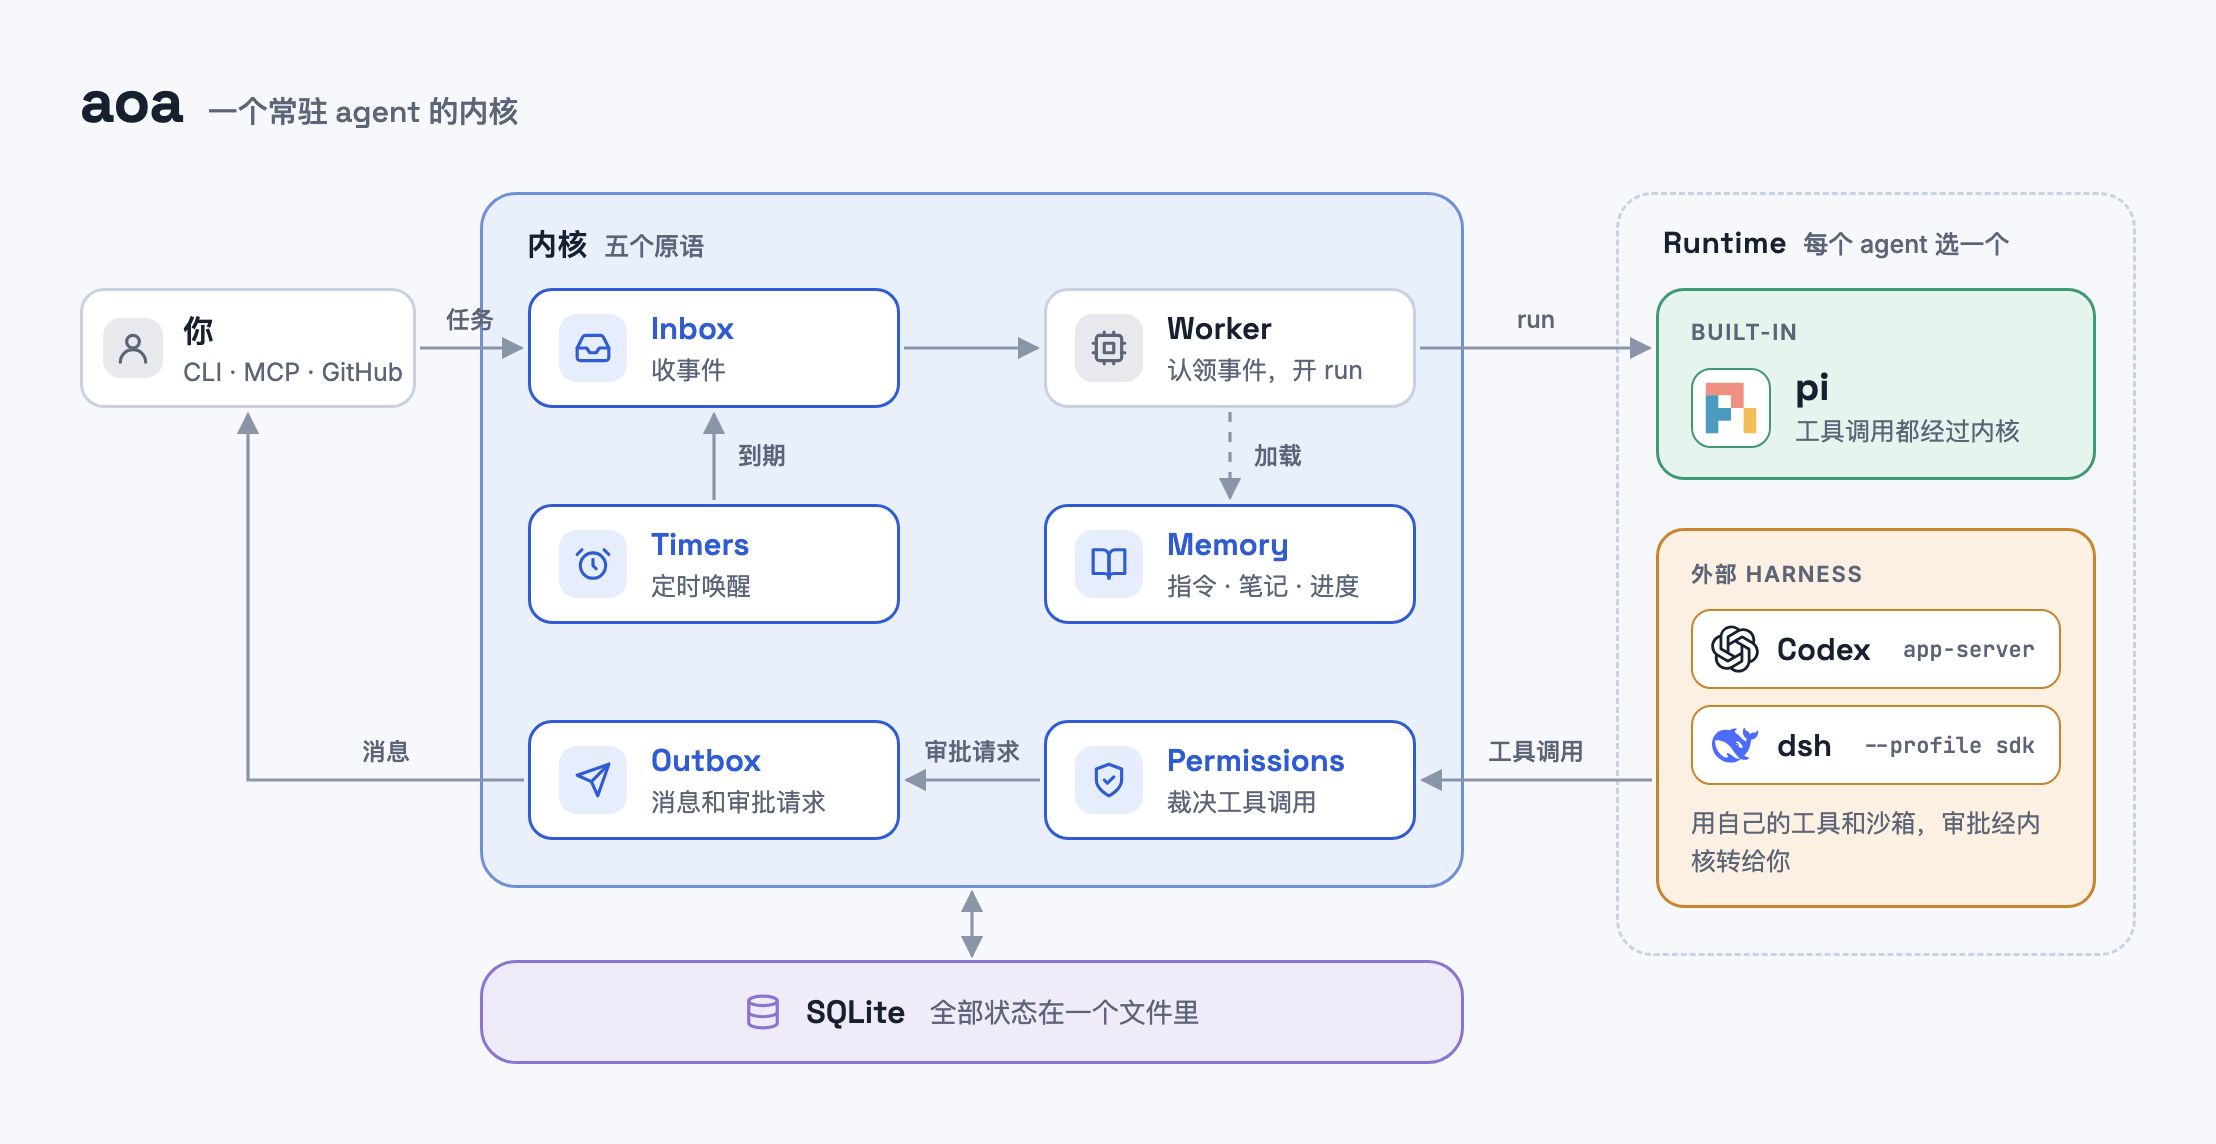
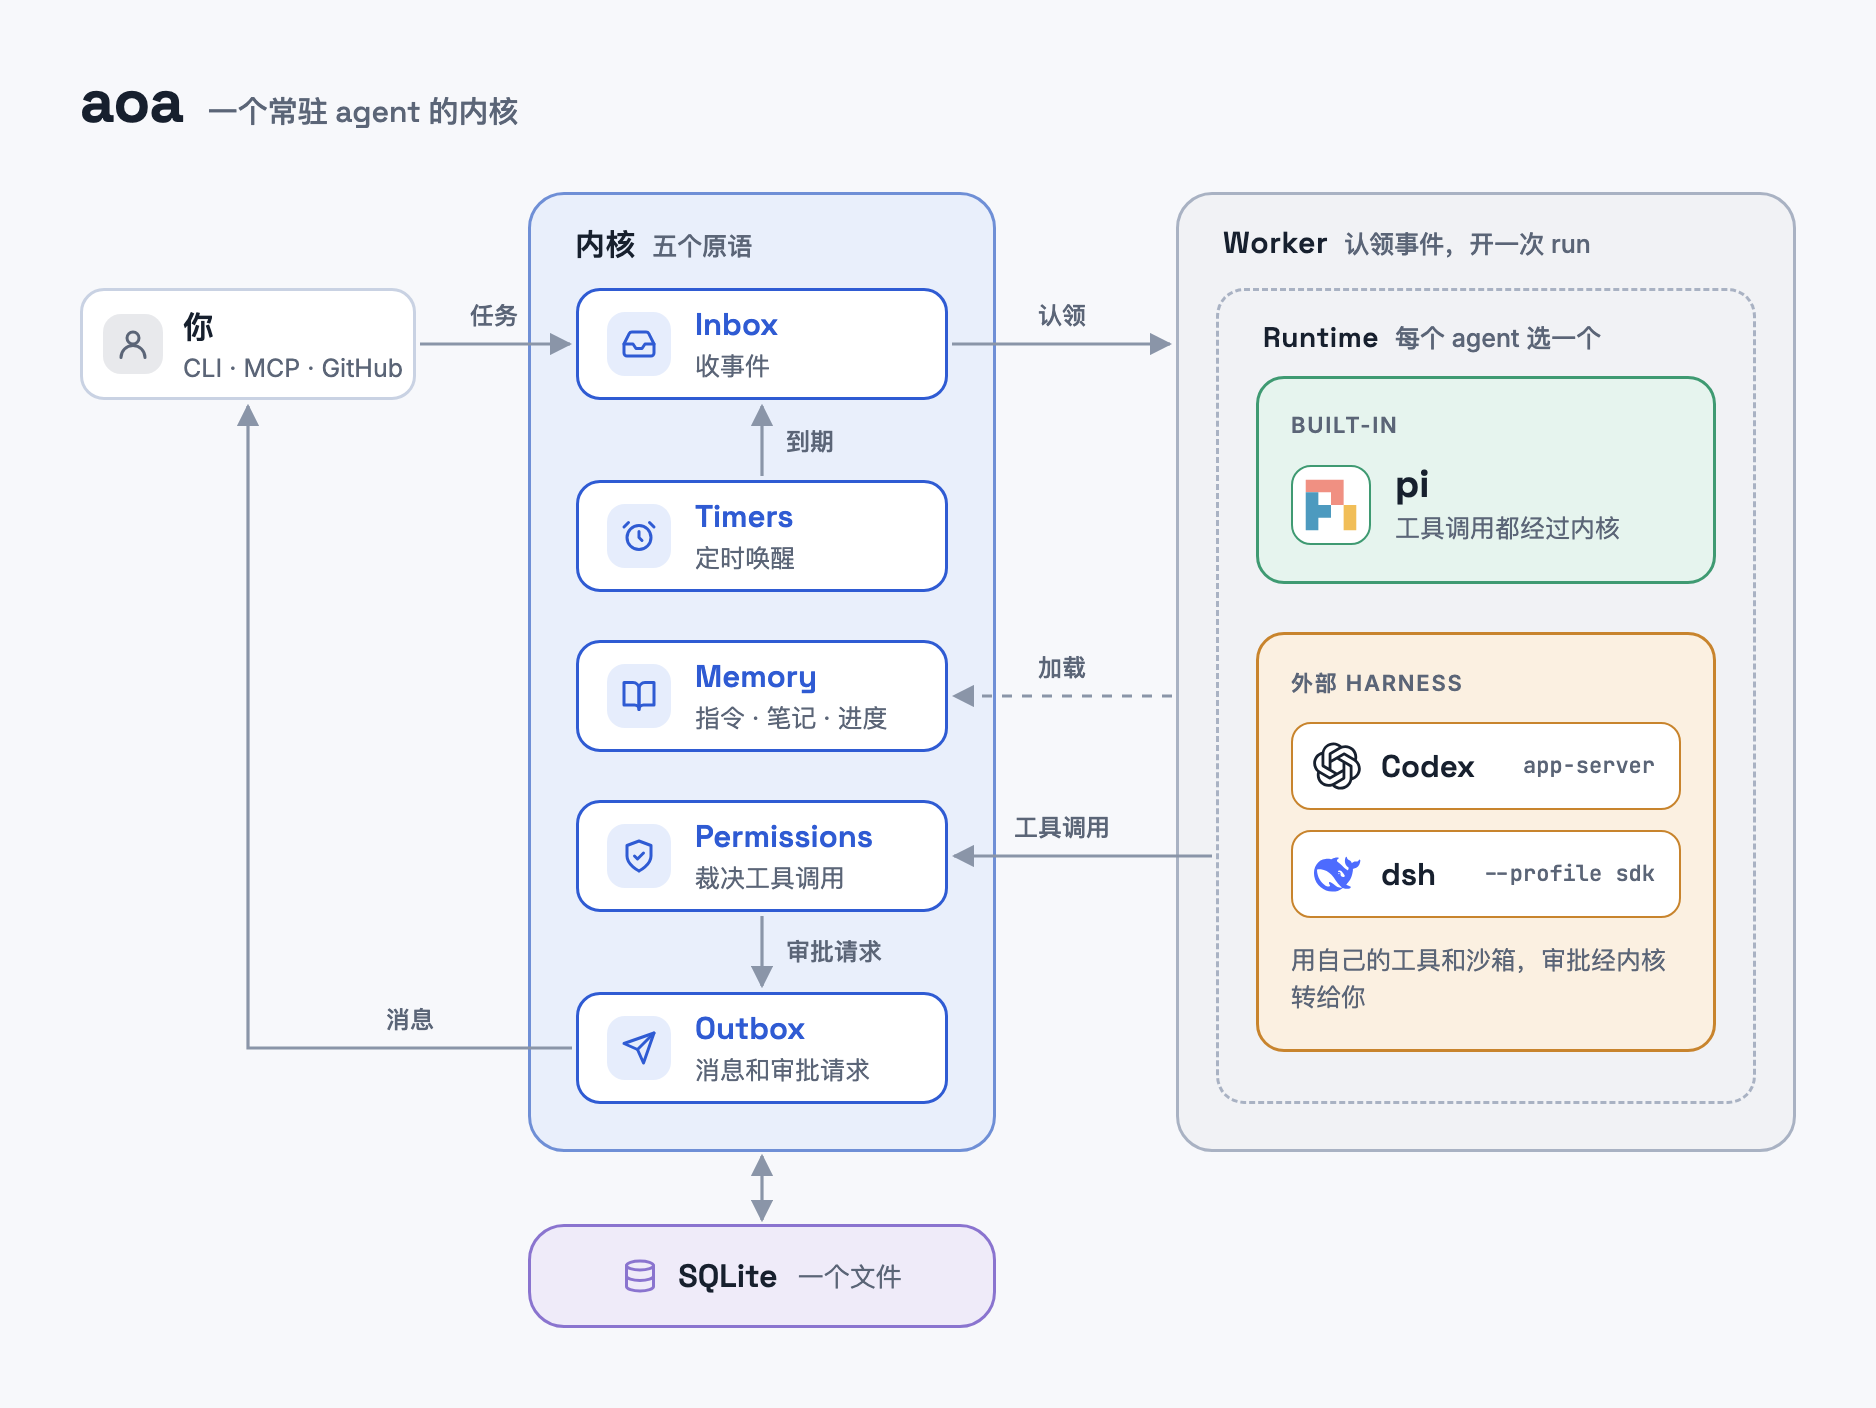
docs: the architecture diagram takes Worker out of the kernel; it wraps the runtimes, and the kernel holds only the five primitives

diff --git a/docs/architecture.html b/docs/architecture.html
@@ -3,7 +3,7 @@
 <link rel="preconnect" href="https://fonts.googleapis.com">
 <link rel="stylesheet" href="https://fonts.googleapis.com/css2?family=Inter:wght@400;500;600&family=JetBrains+Mono:wght@400;500&family=Space+Grotesk:wght@500;600;700&display=swap">
 <style>
-/* Layout: a fixed 1076×540 stage captured as one image. The kernel is a 2×3 grid of equal tiles, so no box is wider than its text; the run goes out of the top row and tool calls come back into the bottom row. */
+/* Layout: a fixed 942×704 stage captured as one image. The kernel is one column of the five primitives; the worker is a separate region on the right that wraps the runtimes, and every kernel↔worker arrow is horizontal. */
 :root {
   --bg: #f7f8fb;
   --ink: #17202e;
@@ -11,6 +11,8 @@
   --line: #8a95a8;
   --kernel: #e9effb;
   --kernel-edge: #6f8fd6;
+  --worker: #f1f2f5;
+  --worker-edge: #a9b2c3;
   --tile: #ffffff;
   --tile-edge: #c9d2e3;
   --prim: #2f5bd3;
@@ -29,14 +31,16 @@
 @media (prefers-color-scheme: dark) {
   :root:not([data-theme="light"]) {
     --bg: #0e131b; --ink: #e8edf5; --muted: #9aa5b8; --line: #6b7689;
-    --kernel: #142037; --kernel-edge: #5576c9; --tile: #101826; --tile-edge: #2c3a52; --prim: #8fb0ff; --icon-bg: #1b2a4a;
+    --kernel: #142037; --kernel-edge: #5576c9; --worker: #151b26; --worker-edge: #3a465c;
+    --tile: #101826; --tile-edge: #2c3a52; --prim: #8fb0ff; --icon-bg: #1b2a4a;
     --builtin: #0f2a20; --builtin-edge: #4fb488; --ext: #2b1f0e; --ext-edge: #d99a45;
     --store: #1d1834; --store-edge: #9a86e0; --chip: #101826; color-scheme: dark;
   }
 }
 :root[data-theme="dark"] {
   --bg: #0e131b; --ink: #e8edf5; --muted: #9aa5b8; --line: #6b7689;
-  --kernel: #142037; --kernel-edge: #5576c9; --tile: #101826; --tile-edge: #2c3a52; --prim: #8fb0ff; --icon-bg: #1b2a4a;
+  --kernel: #142037; --kernel-edge: #5576c9; --worker: #151b26; --worker-edge: #3a465c;
+  --tile: #101826; --tile-edge: #2c3a52; --prim: #8fb0ff; --icon-bg: #1b2a4a;
   --builtin: #0f2a20; --builtin-edge: #4fb488; --ext: #2b1f0e; --ext-edge: #d99a45;
   --store: #1d1834; --store-edge: #9a86e0; --chip: #101826; color-scheme: dark;
 }
@@ -48,7 +52,7 @@ body {
   padding-right: max(16px, env(safe-area-inset-right, 0px));
 }
 .scroll { overflow-x: auto; }
-.stage { position: relative; width: 1076px; height: 540px; margin: 0 auto; }
+.stage { position: relative; width: 906px; height: 672px; margin: 0 auto; }
 .stage > svg { position: absolute; inset: 0; pointer-events: none; }
 .abs { position: absolute; box-sizing: border-box; }
 
@@ -59,37 +63,38 @@ body {
 .region { border-radius: 18px; border: 1.5px solid; }
 .region > .label { position: absolute; left: 22px; top: 14px; font: 600 15px var(--display); letter-spacing: 0.02em; }
 .region > .label small { font: 500 12.5px var(--body); color: var(--muted); margin-left: 8px; letter-spacing: 0; }
-.kernel { left: 224px; top: 80px; width: 492px; height: 348px; background: var(--kernel); border-color: var(--kernel-edge); }
-.runtime { left: 792px; top: 80px; width: 260px; height: 382px; border-color: var(--tile-edge); border-style: dashed; }
-.store { left: 224px; top: 464px; width: 492px; height: 52px; background: var(--store); border-color: var(--store-edge); display: flex; align-items: center; justify-content: center; gap: 12px; padding: 0 20px; }
+.kernel { left: 248px; top: 80px; width: 234px; height: 480px; background: var(--kernel); border-color: var(--kernel-edge); }
+.worker { left: 572px; top: 80px; width: 310px; height: 480px; background: var(--worker); border-color: var(--worker-edge); }
+.runtime { left: 592px; top: 128px; width: 270px; height: 408px; border-color: var(--worker-edge); border-style: dashed; border-radius: 14px; }
+.runtime > .label { font-size: 14px; }
+.store { left: 248px; top: 596px; width: 234px; height: 52px; background: var(--store); border-color: var(--store-edge); display: flex; align-items: center; justify-content: center; gap: 10px; }
 .store b { font: 600 16px var(--display); }
-.store span { font-size: 13.5px; color: var(--muted); }
+.store span { font-size: 13px; color: var(--muted); }
 .store svg { color: var(--store-edge); }
 
-.tile { background: var(--tile); border: 1.5px solid var(--tile-edge); border-radius: 12px; padding: 0 14px; display: flex; align-items: center; gap: 12px; height: 60px; }
+.tile { background: var(--tile); border: 1.5px solid var(--tile-edge); border-radius: 12px; padding: 0 14px; display: flex; align-items: center; gap: 12px; height: 56px; }
 .tile.prim { border-color: var(--prim); }
-.tile .ic { flex: none; width: 34px; height: 34px; border-radius: 9px; background: var(--icon-bg); color: var(--prim); display: grid; place-items: center; }
-.tile:not(.prim) .ic { color: var(--muted); background: color-mix(in srgb, var(--muted) 14%, transparent); }
+.tile .ic { flex: none; width: 32px; height: 32px; border-radius: 9px; background: var(--icon-bg); color: var(--prim); display: grid; place-items: center; }
+.you .ic { color: var(--muted); background: color-mix(in srgb, var(--muted) 14%, transparent); }
 .tile .tx { display: flex; flex-direction: column; gap: 2px; }
 .tile b { font: 600 15.5px var(--display); }
 .tile.prim b { color: var(--prim); }
 .tile span { font-size: 12.5px; color: var(--muted); white-space: nowrap; }
-.col1 { left: 248px; width: 186px; }
-.col2 { left: 506px; width: 186px; }
+.col { left: 272px; width: 186px; }
 .you { left: 24px; top: 128px; width: 168px; padding: 0 10px; gap: 10px; }
 .you .ic { width: 30px; height: 30px; }
 
-.card { left: 812px; width: 220px; border-radius: 14px; border: 1.5px solid; padding: 14px 16px; display: flex; flex-direction: column; gap: 10px; }
+.card { left: 612px; width: 230px; border-radius: 14px; border: 1.5px solid; padding: 14px 16px; display: flex; flex-direction: column; justify-content: center; gap: 12px; }
 .card .kind { font: 600 11px var(--body); letter-spacing: 0.08em; text-transform: uppercase; color: var(--muted); }
 .card p { margin: 0; font-size: 12.5px; line-height: 1.5; color: var(--muted); }
-.builtin { top: 128px; height: 96px; background: var(--builtin); border-color: var(--builtin-edge); }
+.builtin { top: 172px; height: 104px; background: var(--builtin); border-color: var(--builtin-edge); }
 .builtin .row { display: flex; align-items: center; gap: 12px; }
 .builtin .row div { display: flex; flex-direction: column; gap: 1px; }
 .builtin .row b { font: 700 19px/1.2 var(--display); }
 .pi { flex: none; width: 40px; height: 40px; border-radius: 10px; background: var(--chip); border: 1px solid var(--builtin-edge); padding: 5px; box-sizing: border-box; }
-.ext { top: 248px; height: 190px; background: var(--ext); border-color: var(--ext-edge); }
-.ext .pair { display: grid; gap: 8px; }
-.ext .pair div { background: var(--chip); border: 1px solid var(--ext-edge); border-radius: 10px; padding: 7px 12px 7px 9px; display: flex; align-items: center; gap: 9px; }
+.ext { top: 300px; height: 210px; background: var(--ext); border-color: var(--ext-edge); }
+.ext .pair { display: grid; gap: 10px; }
+.ext .pair div { background: var(--chip); border: 1px solid var(--ext-edge); border-radius: 10px; padding: 9px 12px 9px 10px; display: flex; align-items: center; gap: 10px; }
 .ext .pair .logo { width: 24px; height: 24px; flex: none; color: var(--ink); }
 .ext .pair b { font: 600 15.5px var(--display); }
 .ext .pair code { margin-left: auto; font: 500 11px var(--mono); color: var(--muted); }
@@ -98,11 +103,11 @@ body {
 .dash { stroke-dasharray: 5 5; }
 .tip { fill: var(--line); }
 .lbl { font: 500 12px var(--body); fill: var(--muted); }
-.i { width: 19px; height: 19px; fill: none; stroke: currentColor; stroke-width: 2; stroke-linecap: round; stroke-linejoin: round; }
+.i { width: 18px; height: 18px; fill: none; stroke: currentColor; stroke-width: 2; stroke-linecap: round; stroke-linejoin: round; }
 </style>
 
 <div class="scroll">
-<div class="stage" role="img" aria-label="aoa 架构：你交代的任务进入内核的 inbox，worker 开一次 run 交给 runtime，工具调用经过权限，消息从 outbox 回到你；状态存在 SQLite。runtime 有内置的 pi 和外部 harness（Codex、dsh）。">
+<div class="stage" role="img" aria-label="aoa 架构：你交代的任务进入内核的 Inbox；Worker 认领事件，在它选的 runtime 里开一次 run，加载 Memory；runtime 的工具调用经过 Permissions，审批请求和消息从 Outbox 回到你；内核状态存在 SQLite。runtime 有内置的 pi 和外部 harness（Codex、dsh）。">
 
   <div class="abs title"><b>aoa</b><span>一个常驻 agent 的内核</span></div>
 
@@ -112,36 +117,33 @@ body {
   </div>
 
   <div class="abs region kernel"><div class="label">内核<small>五个原语</small></div></div>
-  <div class="abs tile prim col1" style="top:128px">
+  <div class="abs tile prim col" style="top:128px">
     <div class="ic"><svg class="i" viewBox="0 0 24 24"><path d="M22 12h-6l-2 3h-4l-2-3H2"/><path d="M5.45 5.11 2 12v6a2 2 0 0 0 2 2h16a2 2 0 0 0 2-2v-6l-3.45-6.89A2 2 0 0 0 16.76 4H7.24a2 2 0 0 0-1.79 1.11z"/></svg></div>
     <div class="tx"><b>Inbox</b><span>收事件</span></div>
   </div>
-  <div class="abs tile col2" style="top:128px">
-    <div class="ic"><svg class="i" viewBox="0 0 24 24"><rect x="4" y="4" width="16" height="16" rx="2"/><rect x="9" y="9" width="6" height="6"/><path d="M15 2v2M15 20v2M2 15h2M2 9h2M20 15h2M20 9h2M9 2v2M9 20v2"/></svg></div>
-    <div class="tx"><b>Worker</b><span>认领事件，开 run</span></div>
-  </div>
-  <div class="abs tile prim col1" style="top:236px">
+  <div class="abs tile prim col" style="top:224px">
     <div class="ic"><svg class="i" viewBox="0 0 24 24"><circle cx="12" cy="13" r="8"/><path d="M12 9v4l2 2"/><path d="M5 3 2 6"/><path d="m22 6-3-3"/></svg></div>
     <div class="tx"><b>Timers</b><span>定时唤醒</span></div>
   </div>
-  <div class="abs tile prim col2" style="top:236px">
+  <div class="abs tile prim col" style="top:304px">
     <div class="ic"><svg class="i" viewBox="0 0 24 24"><path d="M2 3h6a4 4 0 0 1 4 4v14a3 3 0 0 0-3-3H2z"/><path d="M22 3h-6a4 4 0 0 0-4 4v14a3 3 0 0 1 3-3h7z"/></svg></div>
     <div class="tx"><b>Memory</b><span>指令 · 笔记 · 进度</span></div>
   </div>
-  <div class="abs tile prim col1" style="top:344px">
-    <div class="ic"><svg class="i" viewBox="0 0 24 24"><path d="m22 2-7 20-4-9-9-4Z"/><path d="M22 2 11 13"/></svg></div>
-    <div class="tx"><b>Outbox</b><span>消息和审批请求</span></div>
-  </div>
-  <div class="abs tile prim col2" style="top:344px">
+  <div class="abs tile prim col" style="top:384px">
     <div class="ic"><svg class="i" viewBox="0 0 24 24"><path d="M12 22s8-4 8-10V5l-8-3-8 3v7c0 6 8 10 8 10"/><path d="m9 12 2 2 4-4"/></svg></div>
     <div class="tx"><b>Permissions</b><span>裁决工具调用</span></div>
+  </div>
+  <div class="abs tile prim col" style="top:480px">
+    <div class="ic"><svg class="i" viewBox="0 0 24 24"><path d="m22 2-7 20-4-9-9-4Z"/><path d="M22 2 11 13"/></svg></div>
+    <div class="tx"><b>Outbox</b><span>消息和审批请求</span></div>
   </div>
 
   <div class="abs region store">
     <svg class="i" viewBox="0 0 24 24"><ellipse cx="12" cy="5" rx="9" ry="3"/><path d="M3 5v14a9 3 0 0 0 18 0V5"/><path d="M3 12a9 3 0 0 0 18 0"/></svg>
-    <b>SQLite</b><span>全部状态在一个文件里</span>
+    <b>SQLite</b><span>一个文件</span>
   </div>
 
+  <div class="abs region worker"><div class="label">Worker<small>认领事件，开一次 run</small></div></div>
   <div class="abs region runtime"><div class="label">Runtime<small>每个 agent 选一个</small></div></div>
   <div class="abs card builtin">
     <span class="kind">Built-in</span>
@@ -156,28 +158,27 @@ body {
     <p>用自己的工具和沙箱，审批经内核转给你</p>
   </div>
 
-  <svg viewBox="0 0 1076 540" width="1076" height="540" aria-hidden="true">
+  <svg viewBox="0 0 906 672" width="906" height="672" aria-hidden="true">
     <defs>
       <marker id="tip" viewBox="0 0 10 10" refX="9" refY="5" markerWidth="7" markerHeight="7" orient="auto-start-reverse">
         <path class="tip" d="M0,0 L10,5 L0,10 z"/>
       </marker>
     </defs>
-    <path class="edge" marker-end="url(#tip)" d="M194,158 H245"/>
-    <text class="lbl" x="219" y="148" text-anchor="middle">任务</text>
-    <path class="edge" marker-end="url(#tip)" d="M246,374 H108 V191"/>
-    <text class="lbl" x="177" y="364" text-anchor="middle">消息</text>
-    <path class="edge" marker-end="url(#tip)" d="M341,234 V191"/>
-    <text class="lbl" x="353" y="216">到期</text>
-    <path class="edge" marker-end="url(#tip)" d="M436,158 H503"/>
-    <path class="edge dash" marker-end="url(#tip)" d="M599,190 V233"/>
-    <text class="lbl" x="611" y="216">加载</text>
-    <path class="edge" marker-end="url(#tip)" d="M504,374 H437"/>
-    <text class="lbl" x="470" y="364" text-anchor="middle">审批请求</text>
-    <path class="edge" marker-end="url(#tip)" d="M694,158 H809"/>
-    <text class="lbl" x="752" y="148" text-anchor="middle">run</text>
-    <path class="edge" marker-end="url(#tip)" d="M810,374 H695"/>
-    <text class="lbl" x="752" y="364" text-anchor="middle">工具调用</text>
-    <path class="edge" marker-start="url(#tip)" marker-end="url(#tip)" d="M470,430 V462"/>
+    <path class="edge" marker-end="url(#tip)" d="M194,156 H269"/>
+    <text class="lbl" x="231" y="146" text-anchor="middle">任务</text>
+    <path class="edge" marker-end="url(#tip)" d="M270,508 H108 V187"/>
+    <text class="lbl" x="189" y="498" text-anchor="middle">消息</text>
+    <path class="edge" marker-end="url(#tip)" d="M365,222 V187"/>
+    <text class="lbl" x="377" y="209">到期</text>
+    <path class="edge" marker-end="url(#tip)" d="M460,156 H569"/>
+    <text class="lbl" x="515" y="146" text-anchor="middle">认领</text>
+    <path class="edge dash" marker-end="url(#tip)" d="M570,332 H461"/>
+    <text class="lbl" x="515" y="322" text-anchor="middle">加载</text>
+    <path class="edge" marker-end="url(#tip)" d="M590,412 H461"/>
+    <text class="lbl" x="515" y="402" text-anchor="middle">工具调用</text>
+    <path class="edge" marker-end="url(#tip)" d="M365,442 V477"/>
+    <text class="lbl" x="377" y="464">审批请求</text>
+    <path class="edge" marker-start="url(#tip)" marker-end="url(#tip)" d="M365,562 V594"/>
   </svg>
 </div>
 </div>

diff --git a/README.md b/README.md
@@ -4,7 +4,7 @@
 
 <picture>
   <source media="(prefers-color-scheme: dark)" srcset="docs/architecture-dark.png">
-  <img alt="aoa 架构：事件进入内核的 inbox，worker 开一次 run 交给 runtime，工具调用经过权限，消息从 outbox 送回；状态存在 SQLite；runtime 有内置的 pi 和外部 harness Codex、dsh" src="docs/architecture-light.png">
+  <img alt="aoa 架构：任务进入内核的 Inbox；Worker 认领事件，在 runtime 里开一次 run 并加载 Memory；工具调用经过 Permissions，消息和审批请求从 Outbox 回到你；内核状态存在 SQLite。runtime 有内置的 pi 和外部 harness Codex、dsh" src="docs/architecture-light.png">
 </picture>
 
 - **五个原语**都在内核里：Inbox 收事件，Timers 到点唤醒，Memory 跨 run 保留指令、笔记、进度和已发消息，Permissions 决定每次工具调用能不能做，Outbox 发消息并重试送达。所有状态都在一个 SQLite 文件里，进程崩溃后能接着做。
